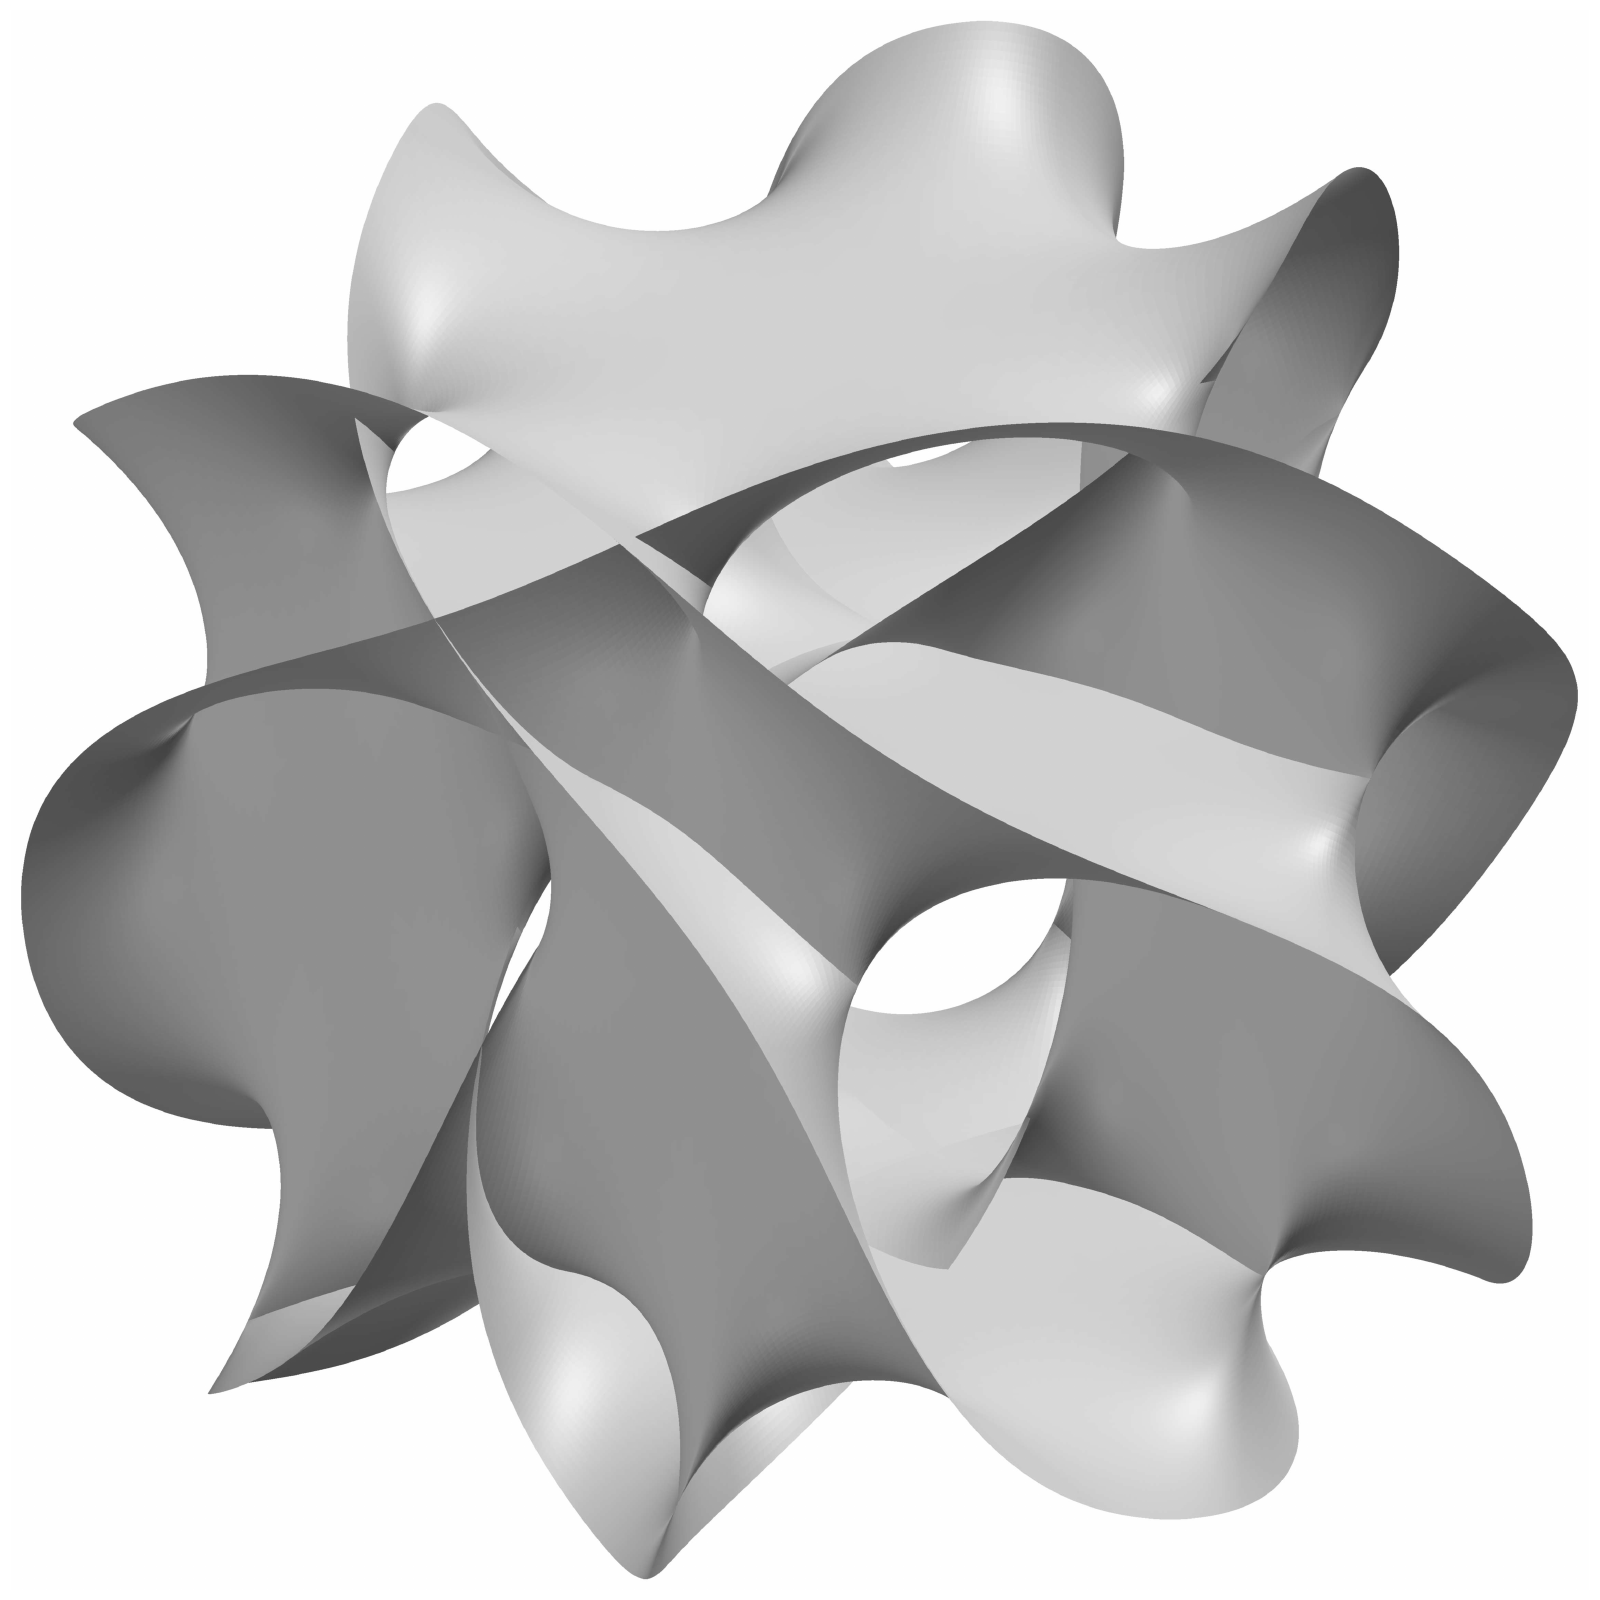
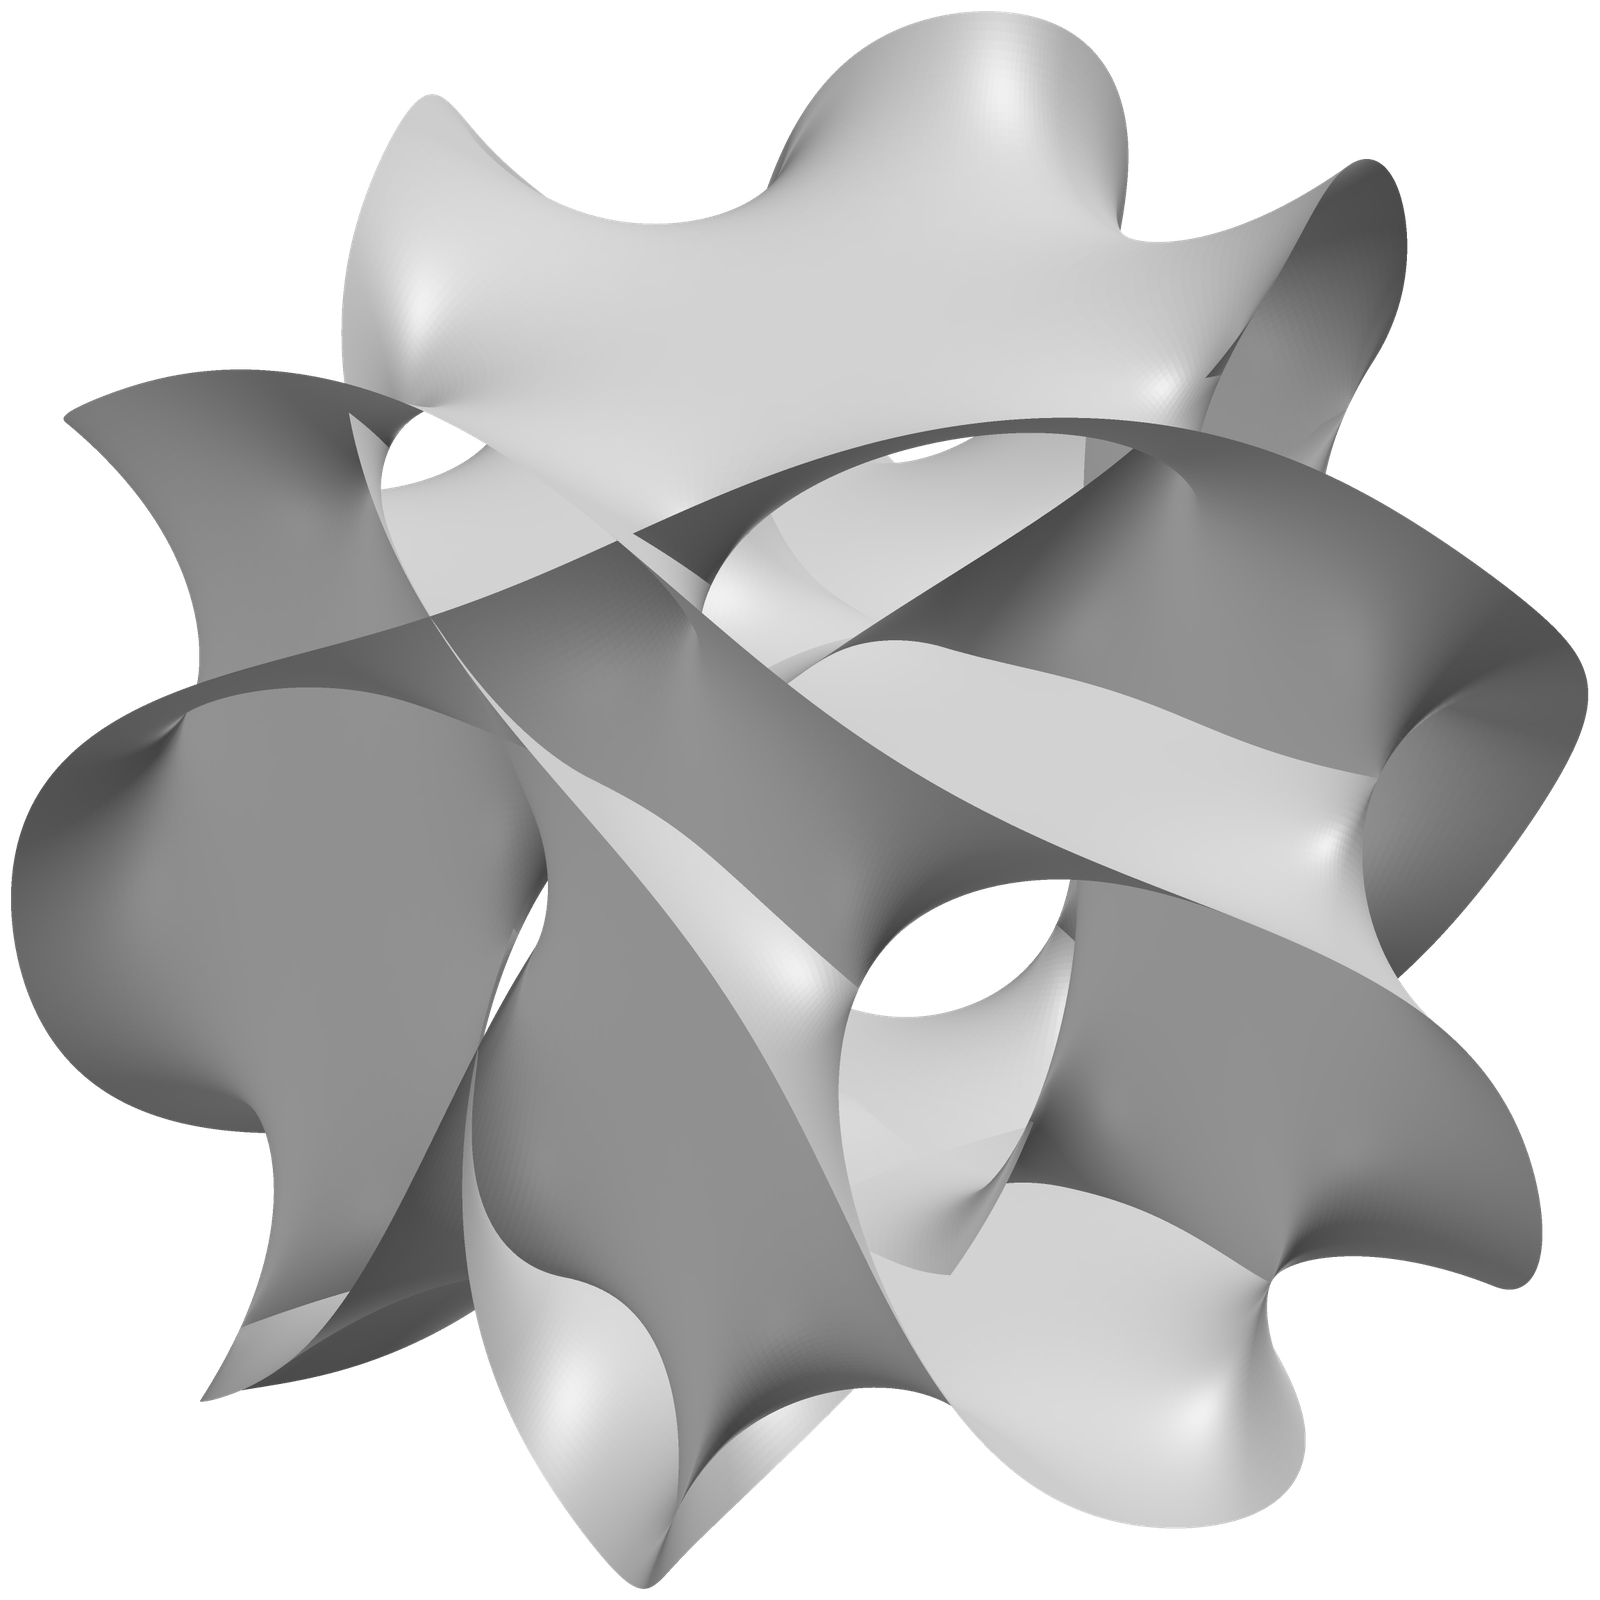
Render Calabi-Yau with a transparent background

diff --git a/_debut/welcome.html b/_debut/welcome.html
@@ -51,9 +51,10 @@ diagrams:
   {% else %}
   {% for diagram in page.diagrams %}
   <figure class="debut__figure" data-debut-variant="{{ diagram.id | escape }}" style="--debut-width: {{ diagram.width }}px; --debut-scale: {{ diagram.scale | default: 1 }}"{% unless forloop.first %} hidden{% endunless %}>
-    <div class="debut__diagram{% if diagram.image %} debut__diagram--rendered{% endif %}" role="img" aria-label="{{ diagram.description | escape }}">
+    <div class="debut__diagram" role="img" aria-label="{{ diagram.description | escape }}">
       {% if diagram.image %}
-      <img src="{{ diagram.image | relative_url }}" width="1600" height="1600" alt="" loading="lazy" decoding="async">
+      {% assign image_file = site.static_files | where: 'path', diagram.image | first %}
+      <img src="{{ diagram.image | relative_url }}?v={{ image_file.modified_time | date: '%s' }}" width="1600" height="1600" alt="" loading="lazy" decoding="async">
       {% else %}
       {% include_relative {{ diagram.svg }} %}
       {% endif %}

diff --git a/_debut/debut.css b/_debut/debut.css
@@ -50,16 +50,6 @@
   overflow: visible;
 }
 
-/* Blend the rendered white canvas into the current welcome-screen background. */
-.debut__diagram--rendered {
-  mix-blend-mode: multiply;
-}
-
-html[data-theme="dark"] .debut__diagram--rendered {
-  filter: invert(1);
-  mix-blend-mode: screen;
-}
-
 .debut__attribution {
   --debut-opacity: .65;
   margin: 32px 4px 0;

diff --git a/_debut/build-diagram.py b/_debut/build-diagram.py
@@ -35,6 +35,36 @@ def prepare_svg(source):
     return ET.tostring(root, encoding='unicode') + '\n'
 
 
+def render_transparent_scene(scene, destination):
+    from PIL import Image, ImageChops
+
+    source = scene.read_text(encoding='utf-8')
+    renders = []
+    for background in ('white', 'black'):
+        prefix = scene.stem + '-' + background
+        program = scene.with_name(prefix + '.asy')
+        program.write_text(source + '\n' + '\n'.join([
+            'settings.outformat="png";',
+            'settings.inlineimage=false;',
+            'defaultfilename="' + prefix + '";',
+            'currentlight.background=' + background + ';',
+        ]) + '\n', encoding='utf-8')
+        subprocess.run(['asy', '-noView', program.name], cwd=scene.parent, check=True)
+        with Image.open(program.with_suffix('.png')) as image:
+            renders.append(image.convert('RGB'))
+
+    white, black = renders
+    if white.size != black.size:
+        raise RuntimeError('Asymptote matte renders must have matching dimensions.')
+    # The background difference measures uncovered pixels, including antialiased edges.
+    alpha = ImageChops.invert(ImageChops.subtract(white, black).convert('L'))
+    # Black-background RGB is premultiplied; undo that before saving straight RGBA.
+    image = Image.merge('RGBa', (*black.split(), alpha)).convert('RGBA')
+    scale = 1600 / max(image.size)
+    size = tuple(max(1, round(length * scale)) for length in image.size)
+    image.resize(size, Image.Resampling.LANCZOS).save(destination, optimize=True)
+
+
 def main():
     parser = argparse.ArgumentParser(description=__doc__)
     parser.add_argument('source', nargs='?', type=Path,
@@ -52,11 +82,15 @@ def main():
             scenes = sorted(Path(directory).glob(source.stem + '-*.asy'))
             if not scenes:
                 raise RuntimeError('LaTeX did not generate an Asymptote scene.')
+            destination = Path(__file__).resolve().parent.parent / 'images' / 'debut' / (source.stem + '.png')
+            destination.parent.mkdir(parents=True, exist_ok=True)
+            if len(scenes) == 1:
+                render_transparent_scene(scenes[0], destination)
+                print('Generated transparent ' + str(destination))
+                return
             for scene in scenes:
                 subprocess.run(['asy', '-noView', scene.name], cwd=directory, check=True)
             subprocess.run(compile_command, cwd=directory, check=True)
-            destination = Path(__file__).resolve().parent.parent / 'images' / 'debut' / (source.stem + '.png')
-            destination.parent.mkdir(parents=True, exist_ok=True)
             subprocess.run(['pdftoppm', '-png', '-singlefile', '-scale-to', '1600',
                             str(Path(directory) / (source.stem + '.pdf')),
                             str(destination.with_suffix(''))], check=True)

diff --git a/_debut/README.md b/_debut/README.md
@@ -54,11 +54,11 @@ SVG 应带有 viewBox，且不依赖外部字体。单色图建议使用 current
 
 脚本将字体转为路径，适配单色主题并为 SVG 的 ID 添加 debut-文件名- 前缀，避免多幅图共存时的 ID 冲突。编织图的白色遮挡也会替换为网站当前底色，适配深色主题。所有中间编译文件写入临时目录，只在 diagrams/ 保留源文件和 SVG。网站构建直接使用已提交的 SVG，访客和 GitHub Pages 均无需安装 LaTeX。
 
-Calabi–Yau 的源文件使用 Asymptote。安装 pdfLaTeX、Asymptote 和 Poppler（pdftoppm）后运行：
+Calabi–Yau 的源文件使用 Asymptote。安装 pdfLaTeX、Asymptote 和 Pillow（`python3 -m pip install Pillow`）后运行：
 
     python3 _debut/build-diagram.py _debut/diagrams/calabi-yau.tex
 
-脚本按 pdfLaTeX → Asymptote → pdfLaTeX 的顺序编译，再将结果导出为 images/debut/calabi-yau.png（1600 × 1600）。源文件保留原来的灰阶灯光、材质和视角；网页通过混合模式融入当前背景，深色主题同时反转灰阶。图片沿用欢迎区的缩放和淡入效果，仅在选中时加载；网站部署直接使用 PNG，无需运行 Asymptote。
+脚本先用 pdfLaTeX 提取场景，再用 Asymptote 分别导出黑底、白底的无损渲染，由两次渲染恢复真实透明通道和抗锯齿边缘，保存为 images/debut/calabi-yau.png（1600 × 1600，RGBA）。网页直接显示透明 PNG，深浅主题均保留原来的灰阶灯光、材质和视角，无需混合模式或颜色反转。图片沿用欢迎区的缩放和淡入效果，仅在选中时加载；图片 URL 带修改时间以更新浏览器缓存，网站部署直接使用 PNG，无需运行 Asymptote。多场景源文件仍按原来的 PDF 流程导出，需要 Poppler（pdftoppm）。
 
 ## 显示和交互
 
